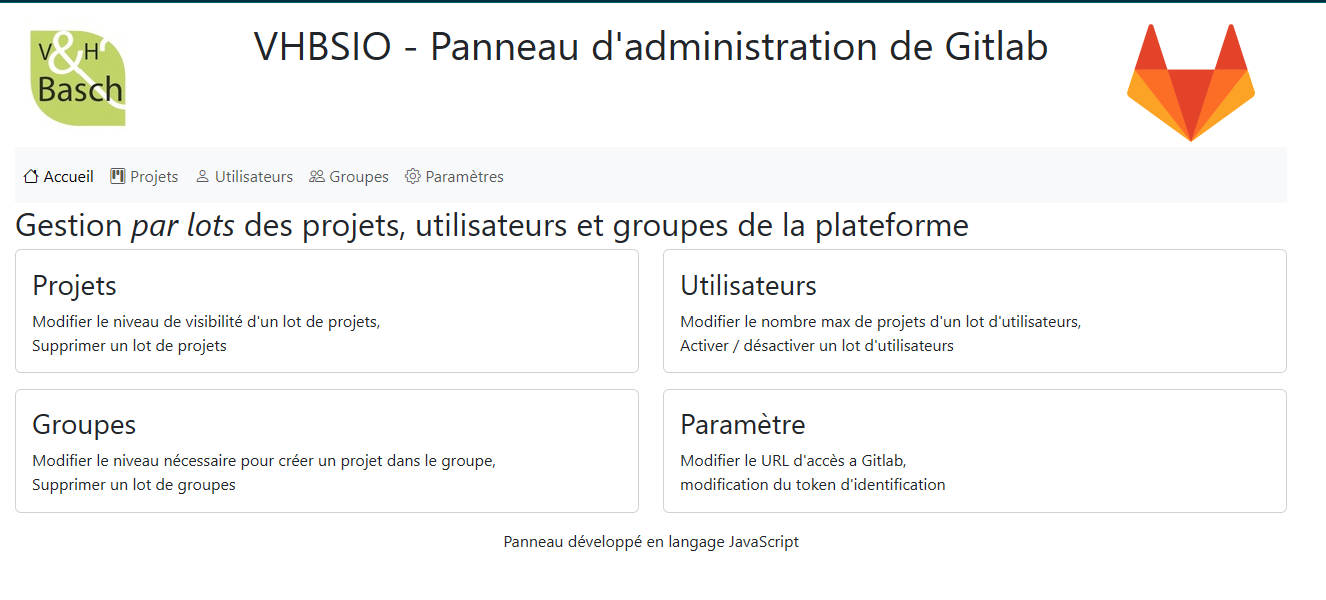
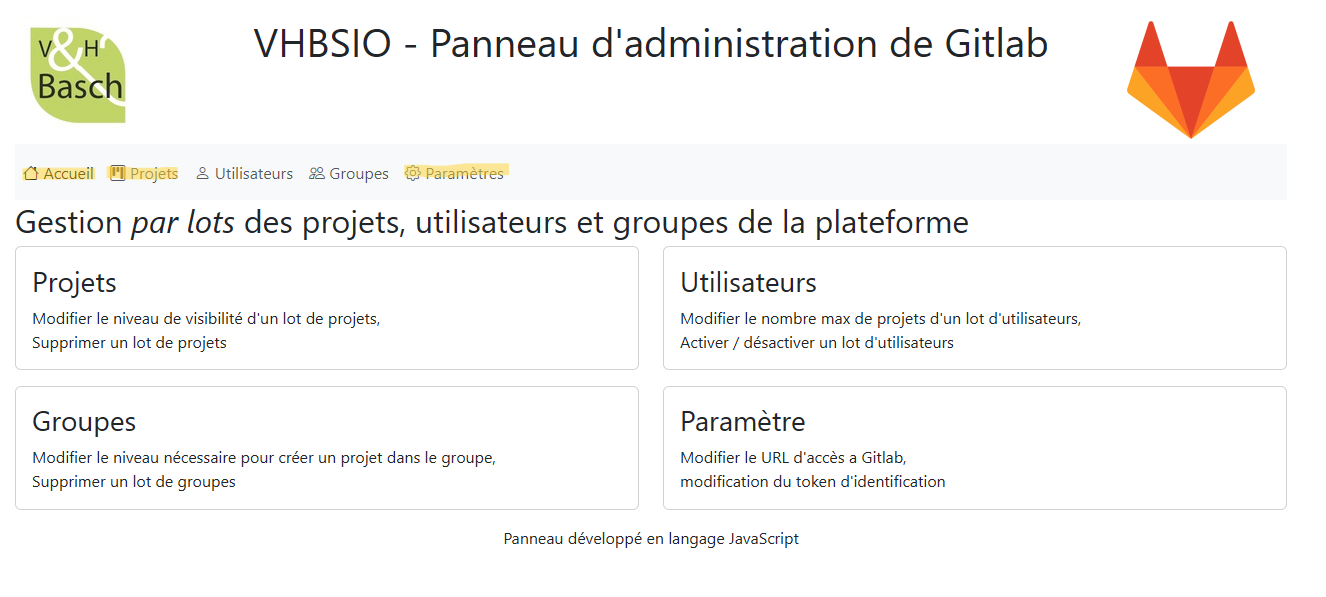
Ajout du descriptif de la page d'acceuil

diff --git a/pagesContent/proj.html b/pagesContent/proj.html
@@ -22,7 +22,11 @@
         <p>
             Comme vous pouvez le voir, nous avons 5 pages au total dans ce projet, 1 page d'acceuil,
             3 pages de gestion (projets, utilisateurs, groupes), 1 page pour paramétrer son token 
-            ainsi que l'url du serveur gitlab.
+            ainsi que l'url du serveur gitlab.<br>
+            Les pages que j'ai modifier dans ce projets sont surlignée en jaune, sur la page d'acceuil 
+            que vous pouvez voir j'ai ajouter la possibiliter de cliquer sur les blocs descriptifs 
+            de chacune des pages ainsi que le bloc descriptif de la page paramètre qui n'était pas 
+            présent dans la première version
         </p>
         <!-- Ajout d'une présentation de la page projet, puis focus sur la page paramètre -->
         <p></p>
